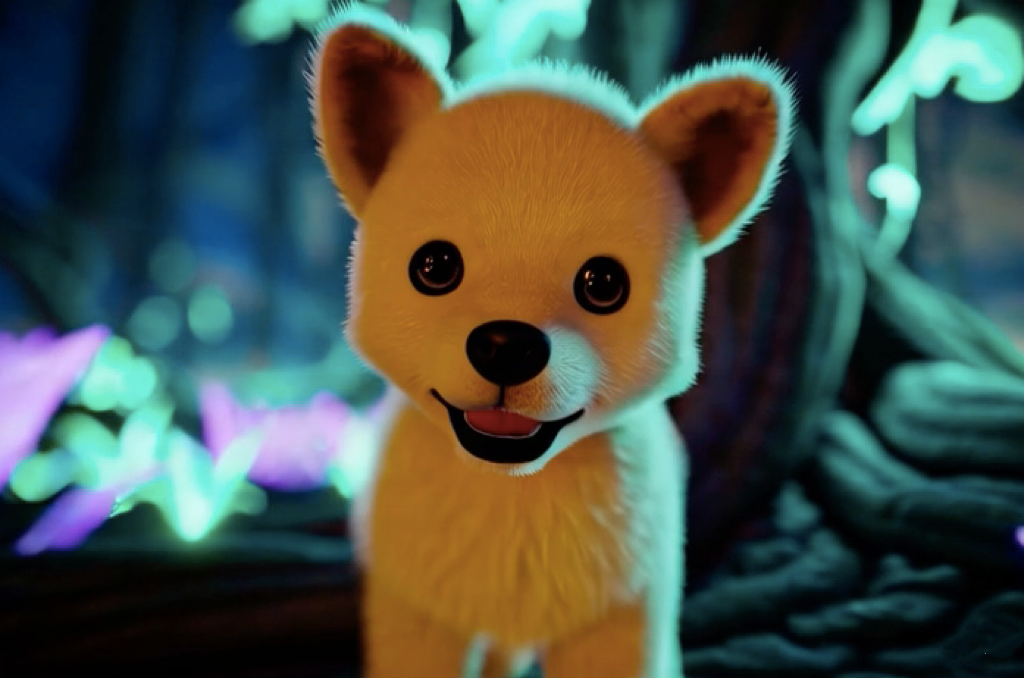
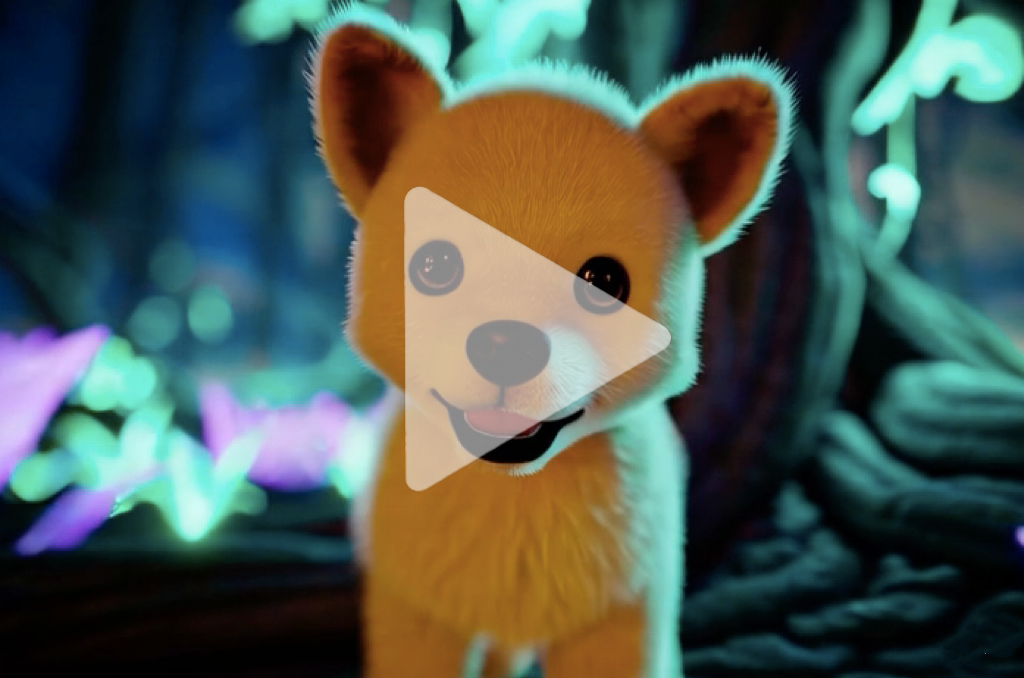
update

Changed region(s): [[0.375, 0.2788, 0.6562, 0.7434]]

diff --git a/README.md b/README.md
@@ -5,15 +5,9 @@
 # Puppy's Magical Adventure
 
 <div align="center">
-  <!-- <img src="images/banner.webp" alt="Banner Image" width="90%"> -->
-
-<a href="https://youtu.be/bFDjtvlrYy0">
-  <img src="https://img.youtube.com/vi/bFDjtvlrYy0/0.jpg" alt="Video preview" width="60%">
-</a>
-
-  <p><em>📺 Click the image above to watch our demo video on YouTube</em></p>
-
+   <img src="images/banner.webp" alt="Banner Image" width="90%"> 
 </div>
+
 
 <div align="center">
   <h2>
@@ -24,6 +18,13 @@
 <div align="center">
   <a href="https://github.com/orgs/UoB-COMSM0166/projects/131"><img src="https://img.shields.io/badge/Kanban_Board-Active-blue?style=for-the-badge" alt="Project Board"></a>
   <img src="https://img.shields.io/badge/Status-Complete-success?style=for-the-badge" alt="Status">
+</div>
+
+<div align="center">
+  <a href="https://youtu.be/bFDjtvlrYy0">
+    <img src="https://raw.githubusercontent.com/UoB-COMSM0166/2025-group-4/main/docs/src/assets/art/images/dogvideo.png" width="30%" alt="Watch the video">
+  </a>
+  <p><strong>🎥&nbsp;&nbsp;&nbsp;&nbsp;Demo Video&nbsp;&nbsp;&nbsp;&nbsp;🎥</strong></p>
 </div>
 
 ---
